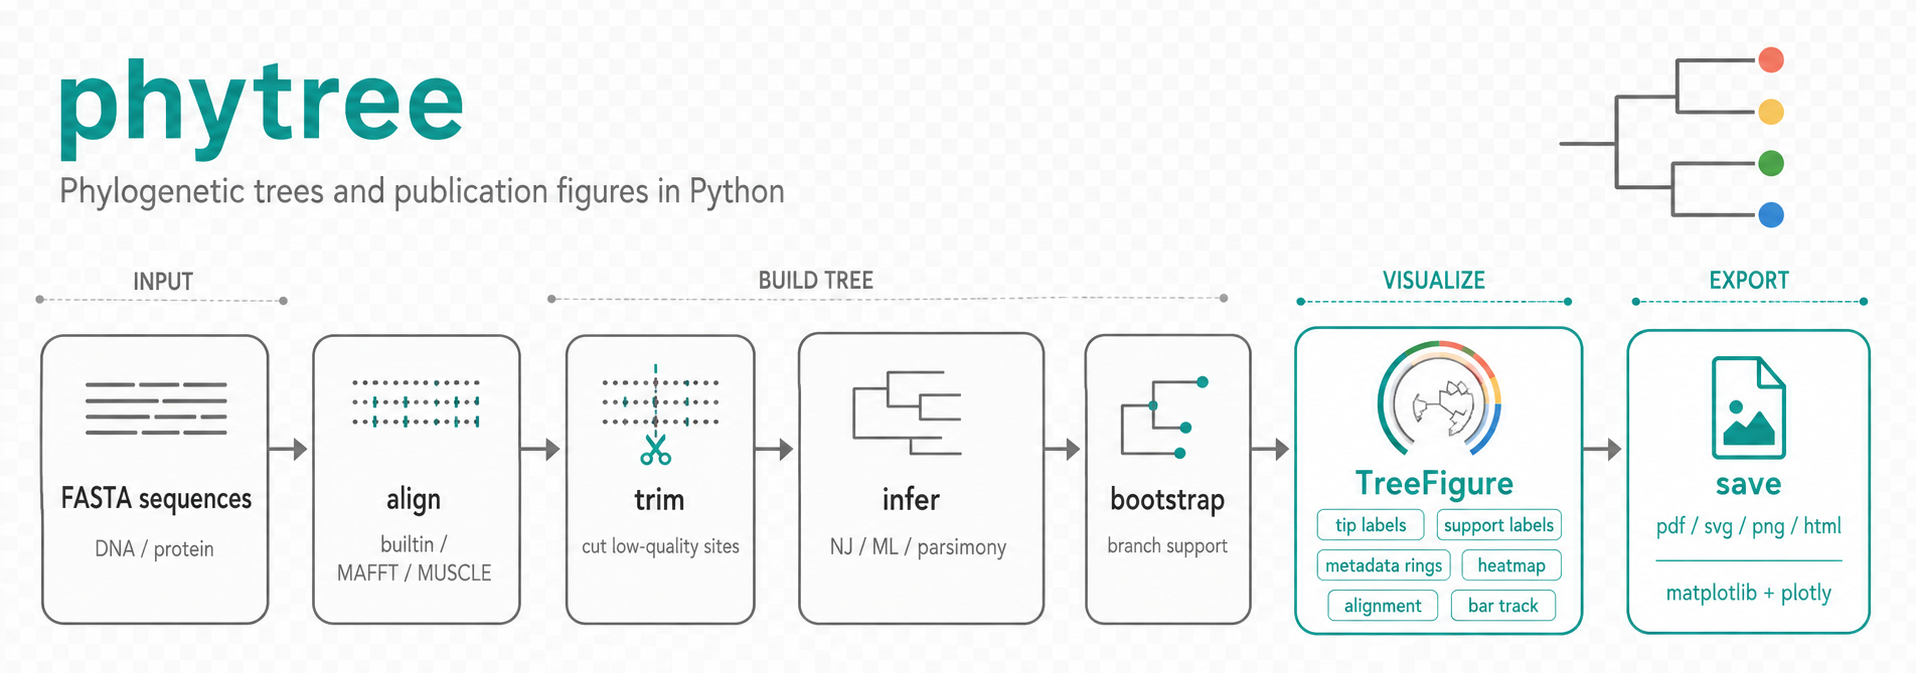
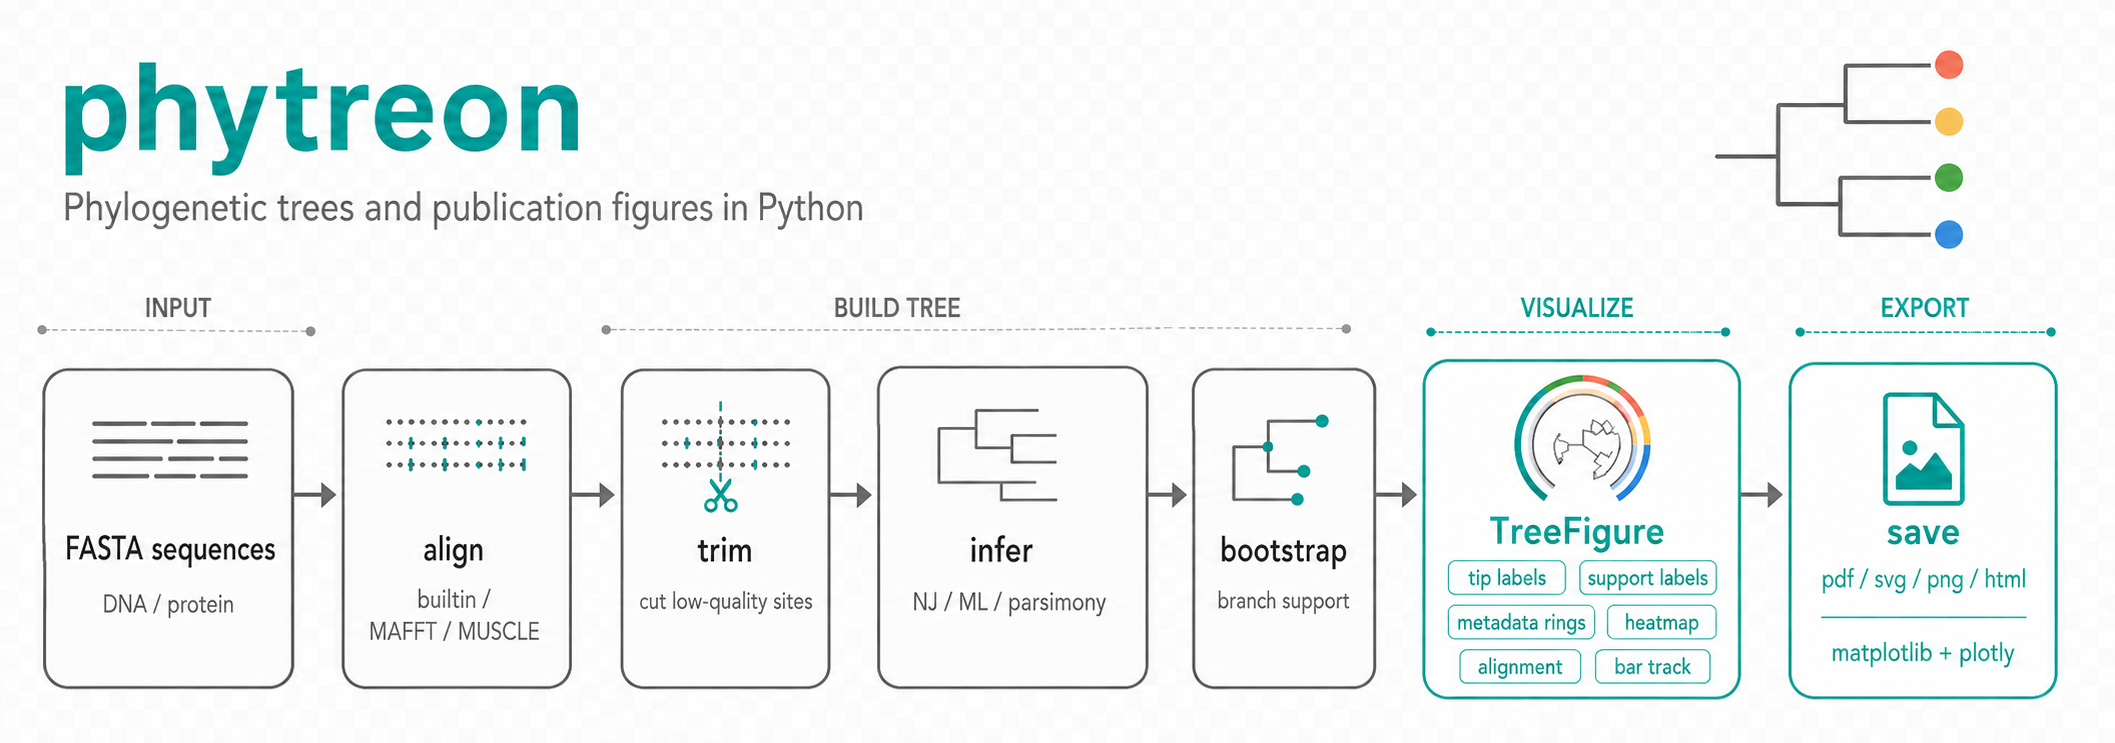
Release 0.1.1: update pipeline diagram, bump version

diff --git a/phytreon/__init__.py b/phytreon/__init__.py
@@ -33,7 +33,7 @@ from .treeops import (
     robinson_foulds,
 )
 
-__version__ = "0.1.0"
+__version__ = "0.1.1"
 
 __all__ = [
     "core", "layout", "infer", "comparative", "plot", "datasets",

diff --git a/CHANGELOG.md b/CHANGELOG.md
@@ -3,6 +3,12 @@
 All notable changes to phytreon are documented here. Format loosely follows
 [Keep a Changelog](https://keepachangelog.com/).
 
+## [0.1.1] — 2026-07-01
+
+Renamed the project **phytree → phytreon**; first release published to PyPI.
+Added GitHub Actions workflows for automated PyPI publishing (trusted
+publishing / OIDC) and docs deployment to GitHub Pages.
+
 ## [0.1.0] — 2026-06-24
 
 First working version: a pure-Python phylogenetics + tree-visualisation